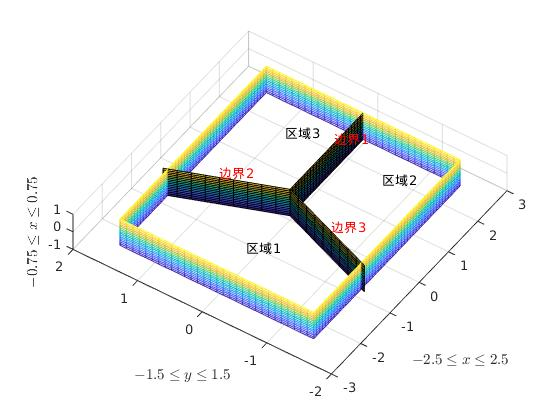
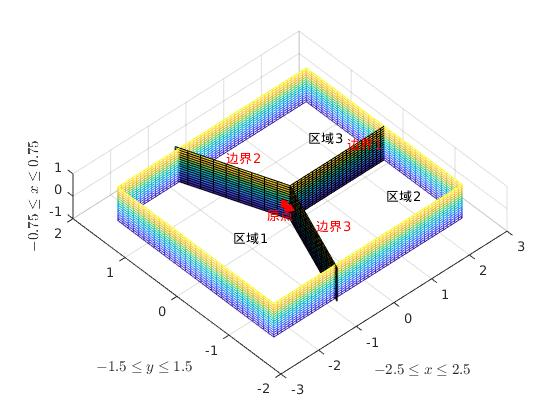
add origin

diff --git a/scripts/bounds.m b/scripts/bounds.m
@@ -16,7 +16,7 @@ text(1.5, 0.75, 0,'区域3');
 text(1.5, 0, 1, '边界1', 'Color', 'Red');
 text(-0.5, 0.5*sqrt(3), 1, '边界2', 'Color', 'Red');
 text(-0.5, -0.5*sqrt(3), 1, '边界3', 'Color', 'Red');
-text(0.1, -0.1, 0.1, '原点', 'Color', 'Red');
+text(-0.6, 0, 0.1, '原点', 'Color', 'Red');
 hold on;
 plot3(0,0,0,'rs','LineWidth',5,'MarkerSize',10);
 
